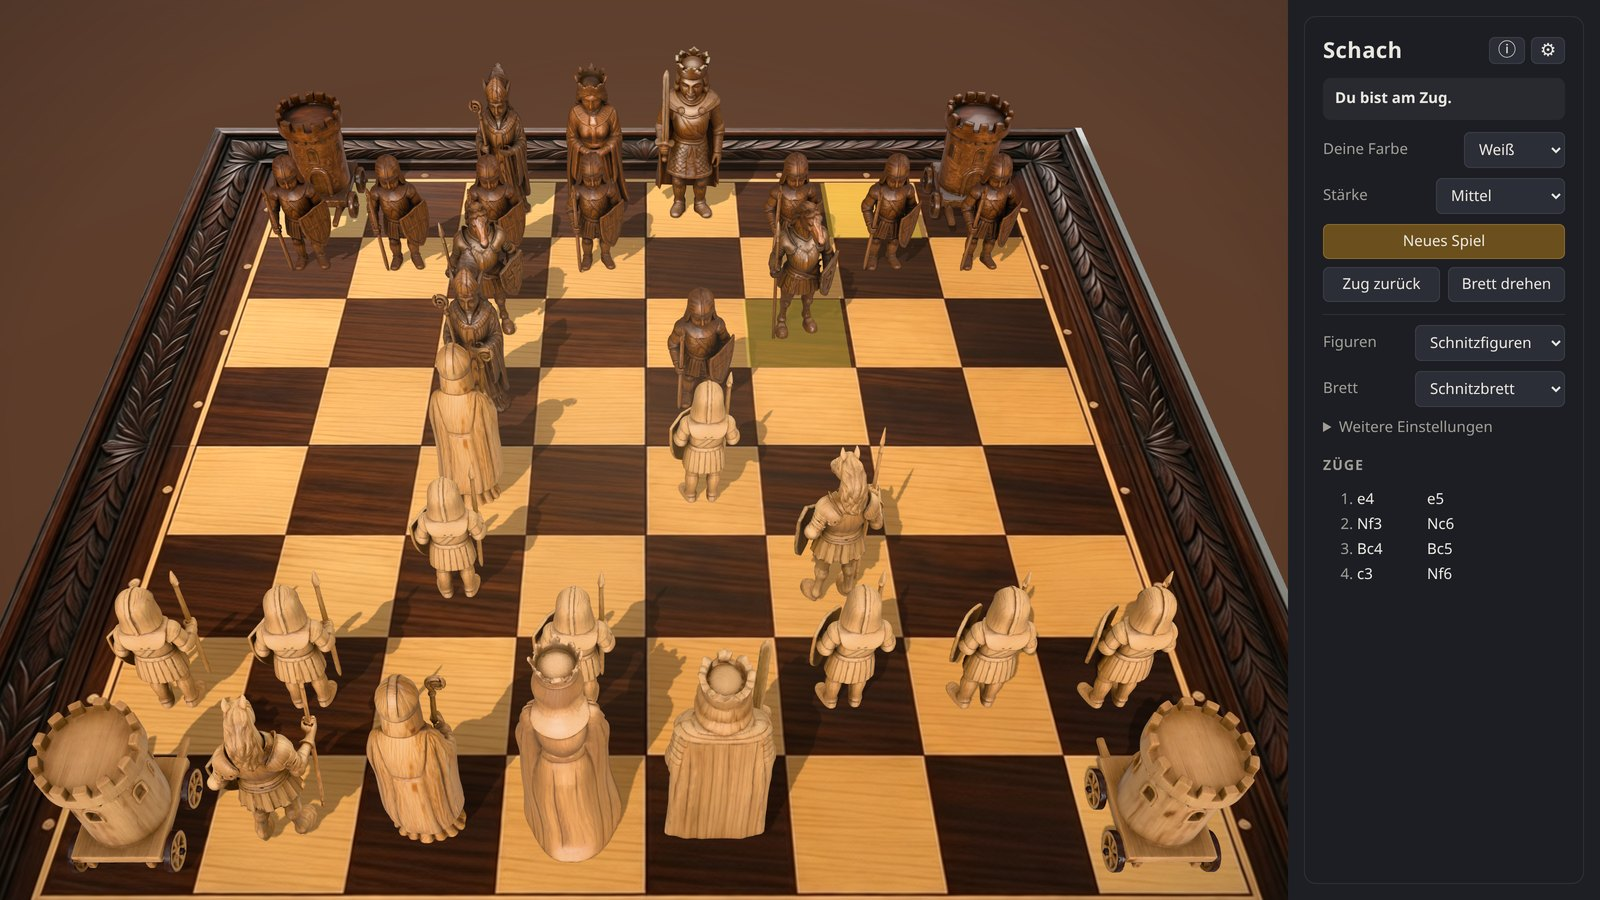
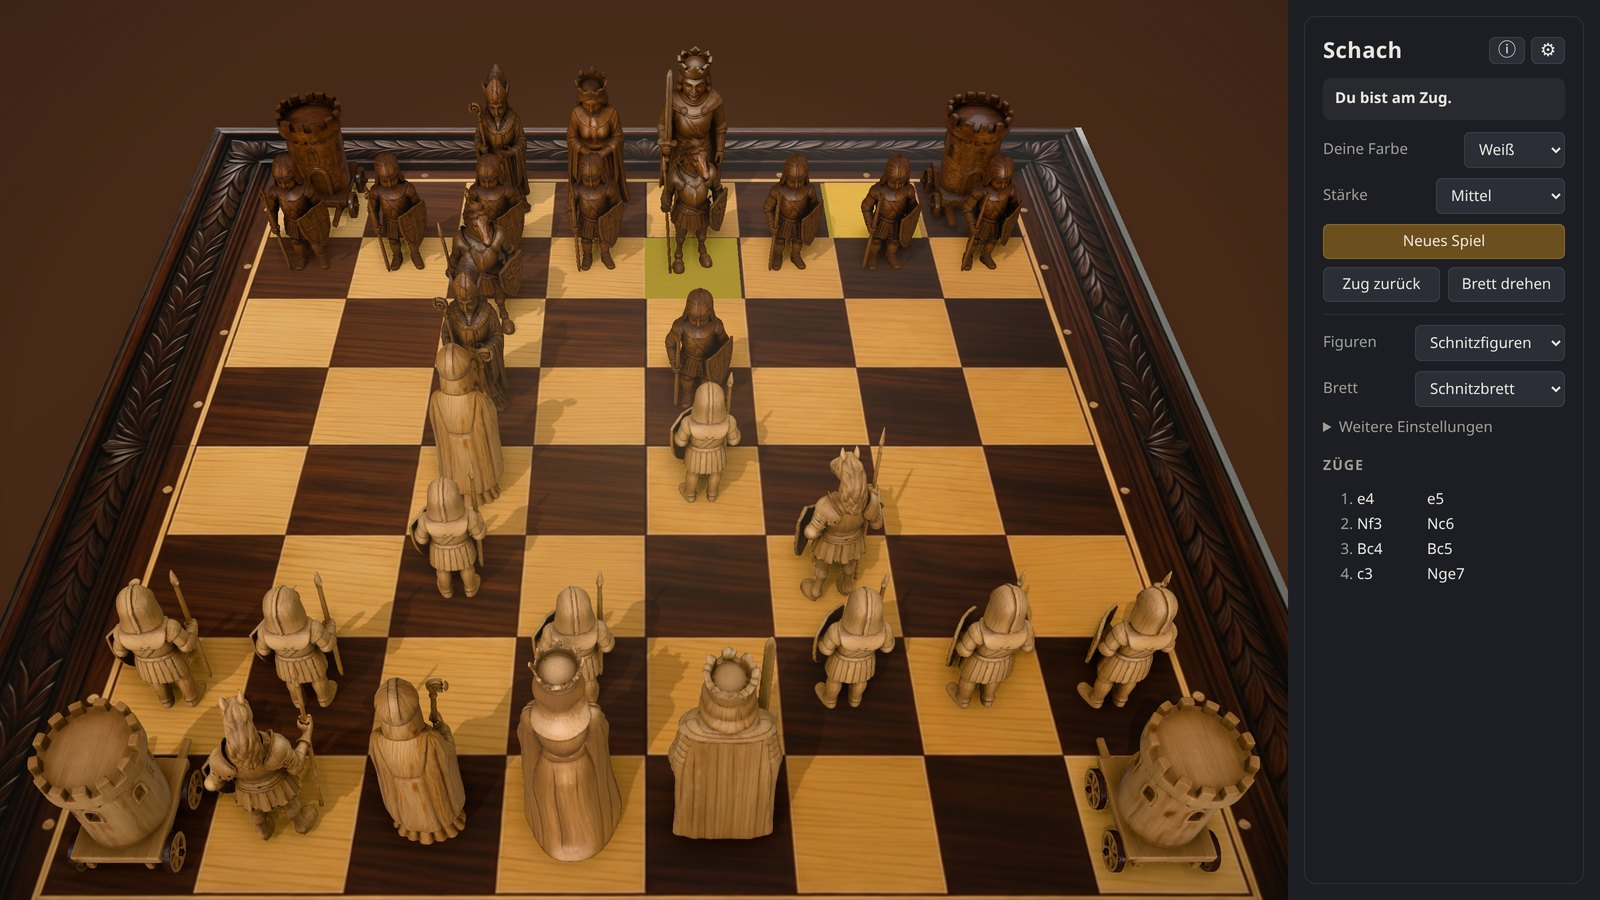
Ausleuchtung: beleuchtetes Brett, Umgebungsverdeckung, neues Lichtverhältnis
- Schnitzbrett als beleuchtetes Material (MeshStandardMaterial) statt
  unbeleuchtetem Bild: gleiches Licht, gleiche Schatten wie die Figuren
- Umgebungsverdeckung (GTAO, halbe Auflösung) über EffectComposer; in den
  Einstellungen abschaltbar; Klick-Zylinder auf eigener Ebene
- Standardlicht: Umgebung 0,45, Sonne 1,5 (an Nahaufnahmen von Weiß und
  Schwarz aller Sätze abgestimmt); neuer Speicherschlüssel
- README-Bilder neu

diff --git a/public/main.js b/public/main.js
@@ -1,6 +1,10 @@
 import * as THREE from 'three';
 import { OrbitControls } from 'three/addons/controls/OrbitControls.js';
 import { RoomEnvironment } from 'three/addons/environments/RoomEnvironment.js';
+import { EffectComposer } from 'three/addons/postprocessing/EffectComposer.js';
+import { RenderPass } from 'three/addons/postprocessing/RenderPass.js';
+import { GTAOPass } from 'three/addons/postprocessing/GTAOPass.js';
+import { OutputPass } from 'three/addons/postprocessing/OutputPass.js';
 import { Chess } from 'chess.js';
 import { loadModel, ModelFigure } from './models.js';
 
@@ -19,7 +23,7 @@ const MIN_THINK_MS = 450;
 const OUTLINE_WIDTH = 0.022;
 const SETTINGS_KEY = 'schach3d.settings';
 const SET_KEY = 'schach3d.auswahl';
-const LIGHT_KEY = 'schach3d.licht';
+const LIGHT_KEY = 'schach3d.licht2';   // neuer Schlüssel: alte gespeicherte Werte überdecken die neuen Standards nicht
 // Laufende Partie über den Neuladen beim Wechsel von Brett oder Figuren retten
 const GAME_KEY = 'schach3d.partie';
 
@@ -37,8 +41,8 @@ try { Object.assign(choice, JSON.parse(localStorage.getItem(SET_KEY))); } catch 
 if (!BOARD_SETS[choice.brett]) choice.brett = 'schnitz';
 if (!PIECE_SETS[choice.figuren]) choice.figuren = 'schnitz';
 
-// Helligkeit des Brettbilds (unbeleuchtet: Faktor auf die Bildfarben)
-const BOARD_LIGHT = 1.4;
+// Helligkeit des Brettbilds: Faktor auf die Bildfarben (das Brett ist beleuchtet wie die Figuren)
+const BOARD_LIGHT = 1.0;
 // Brett-Textur: Kantenlänge der Fläche und Mitte des 8x8-Feldes relativ zur Bildmitte, in Feldbreiten
 // (x nach rechts, y nach unten im Bild = zur weißen Seite)
 const BOARD_PLANE = 10.3957;
@@ -85,7 +89,7 @@ const statsEl = $('stats');
 // Einstellungen
 // ---------------------------------------------------------------------------
 
-const settings = { toon: false, renderInfo: false };
+const settings = { toon: false, renderInfo: false, ao: true };
 try { Object.assign(settings, JSON.parse(localStorage.getItem(SETTINGS_KEY))); } catch { /* egal */ }
 
 function saveSettings() {
@@ -130,6 +134,15 @@ scene.add(front);
 scene.add(front.target);
 
 const camera = new THREE.PerspectiveCamera(42, 1, 0.1, 100);
+// Umgebungsverdeckung (GTAO): Kehlen, Ringe, Falten und der Fuß am Brett werden dunkler, wie bei echtem Licht.
+// Die Tonwertabbildung macht danach der OutputPass.
+const composer = new EffectComposer(renderer);
+composer.addPass(new RenderPass(scene, camera));
+const gtao = new GTAOPass(scene, camera, 512, 512);
+gtao.updateGtaoMaterial({ radius: 0.35, distanceExponent: 1.5, thickness: 1.0, scale: 1.0, samples: 8 });
+gtao.blendIntensity = 1.0;
+composer.addPass(gtao);
+composer.addPass(new OutputPass());
 const controls = new OrbitControls(camera, renderer.domElement);
 controls.enablePan = false;
 controls.enableDamping = true;
@@ -156,9 +169,11 @@ function posToSquare(x, z) {
 // ---------------------------------------------------------------------------
 
 const labels = [];   // Koordinaten am Rand (Spielzeugbrett), werden zum Betrachter gedreht
-const boardMaterial = new THREE.MeshBasicMaterial({ color: new THREE.Color().setScalar(BOARD_LIGHT), toneMapped: false });
+// Das Brettbild ist die Farbe eines beleuchteten Materials: es bekommt dasselbe Licht, dieselben Schatten und dieselbe
+// Umgebungsverdeckung wie die Figuren (vorher unbeleuchtet, das passte nie zusammen)
+const boardMaterial = new THREE.MeshStandardMaterial({ color: new THREE.Color().setScalar(BOARD_LIGHT), roughness: 0.45 });
 
-// Schnitzbrett: fertiges Bild (mit Rand und Koordinaten) auf einer Platte, Schatten auf einer eigenen Fläche darüber
+// Schnitzbrett: fertiges Bild (mit Rand und Koordinaten) auf einer beleuchteten Platte
 function buildBoard(texture) {
   boardMaterial.map = texture;
   const centre = new THREE.Vector3(-FIELD_OFFSET.x, 0, -FIELD_OFFSET.y);   // Feldmitte im Ursprung
@@ -167,13 +182,8 @@ function buildBoard(texture) {
   const top = new THREE.Mesh(new THREE.PlaneGeometry(BOARD_PLANE, BOARD_PLANE), boardMaterial);
   top.rotation.x = -Math.PI / 2;   // Bild oben = Reihe 8 = hinten (-Z)
   top.position.copy(centre);
+  top.receiveShadow = true;
   scene.add(top);
-  // Schatten der Figuren auf dem (unbeleuchteten) Brett: transparente Fläche, die nur Schatten zeigt
-  const shadows = new THREE.Mesh(new THREE.PlaneGeometry(BOARD_PLANE, BOARD_PLANE), new THREE.ShadowMaterial({ opacity: 0.35 }));
-  shadows.rotation.x = -Math.PI / 2;
-  shadows.position.copy(centre).setY(0.002);
-  shadows.receiveShadow = true;
-  scene.add(shadows);
   const side = new THREE.Mesh(
     new THREE.BoxGeometry(BOARD_PLANE, BOARD_THICKNESS, BOARD_PLANE),
     new THREE.MeshStandardMaterial({ color: 0x4a2c1c, roughness: 0.7 }),
@@ -316,7 +326,9 @@ const GROUPS = {
   sun: [[sun, sun.intensity]],
   front: [[front, front.intensity]],
 };
-const light = { ambient: 1, sun: 1, front: 0, board: 1, white: 1, black: 1 };
+// Weniger Umgebungslicht, mehr Sonne: plastisch für beide Farben (Weiß brennt nicht aus, Schwarz bekommt Glanzlichter);
+// mit beleuchtetem Brett und Umgebungsverdeckung an Nahaufnahmen von Weiß und Schwarz aller Sätze abgestimmt
+const light = { ambient: 0.45, sun: 1.5, front: 0, board: 1, white: 1, black: 1 };
 try { Object.assign(light, JSON.parse(localStorage.getItem(LIGHT_KEY))); } catch { /* egal */ }
 const SLIDERS = [['lightAmbient', 'ambient'], ['lightSun', 'sun'], ['lightFront', 'front'], ['lightBoard', 'board'], ['lightWhite', 'white'], ['lightBlack', 'black']];
 
@@ -427,6 +439,7 @@ async function loadModels() {
   await Promise.all(jobs);
 }
 
+const HIT_LAYER = 1;
 const hitMat = new THREE.MeshBasicMaterial({ transparent: true, opacity: 0, depthWrite: false, colorWrite: false });
 
 function createPiece(color, type, square) {
@@ -439,6 +452,7 @@ function createPiece(color, type, square) {
   const h = model.pieceHeight;
   const hit = new THREE.Mesh(new THREE.CylinderGeometry(0.36, 0.4, h, 12), hitMat);
   hit.position.y = h / 2;
+  hit.layers.set(HIT_LAYER);   // nur für den Raycaster: nicht gerendert, auch nicht in die Umgebungsverdeckung
   fig.root.add(hit);
 
   fig.root.position.copy(squareToPos(square));
@@ -842,6 +856,7 @@ function undo() {
 // ---------------------------------------------------------------------------
 
 const raycaster = new THREE.Raycaster();
+raycaster.layers.enable(HIT_LAYER);
 const pointer = new THREE.Vector2();
 let downAt = null;
 
@@ -900,6 +915,12 @@ toonBox.addEventListener('change', () => {
   saveSettings();
   for (const p of livePieces) applyPieceStyle(p);
 });
+const aoBox = $('ao');
+aoBox.checked = settings.ao;
+aoBox.addEventListener('change', () => {
+  settings.ao = aoBox.checked;
+  saveSettings();
+});
 renderInfoBox.checked = settings.renderInfo;
 statsEl.hidden = !settings.renderInfo;
 renderInfoBox.addEventListener('change', () => {
@@ -952,6 +973,10 @@ function resize() {
   const w = container.clientWidth;
   const h = container.clientHeight;
   renderer.setSize(w, h);
+  composer.setSize(w, h);
+  // Verdeckung in halber Auflösung: weiche Verläufe, halbe Rechenarbeit
+  const pr = renderer.getPixelRatio();
+  gtao.setSize(Math.round(w * pr / 2), Math.round(h * pr / 2));
   camera.aspect = w / h;
   computeHomeFit();
   applyLensShift(w, h);
@@ -985,7 +1010,7 @@ renderer.setAnimationLoop(() => {
   // Frontlicht wandert mit der Kamera
   front.position.copy(FRONT_OFFSET).applyQuaternion(camera.quaternion).add(camera.position);
   front.target.position.copy(controls.target);
-  renderer.render(scene, camera);
+  if (settings.ao) composer.render(); else renderer.render(scene, camera);
   updateStats();
 });
 

diff --git a/public/index.html b/public/index.html
@@ -90,6 +90,10 @@
         <span>Toon-Rendering</span>
       </label>
       <label class="option">
+        <input type="checkbox" id="ao" data-testid="ao">
+        <span>Umgebungsverdeckung (schöner, braucht mehr Grafikleistung)</span>
+      </label>
+      <label class="option">
         <input type="checkbox" id="renderInfo" data-testid="render-info">
         <span>Rendering-Infos anzeigen</span>
       </label>
